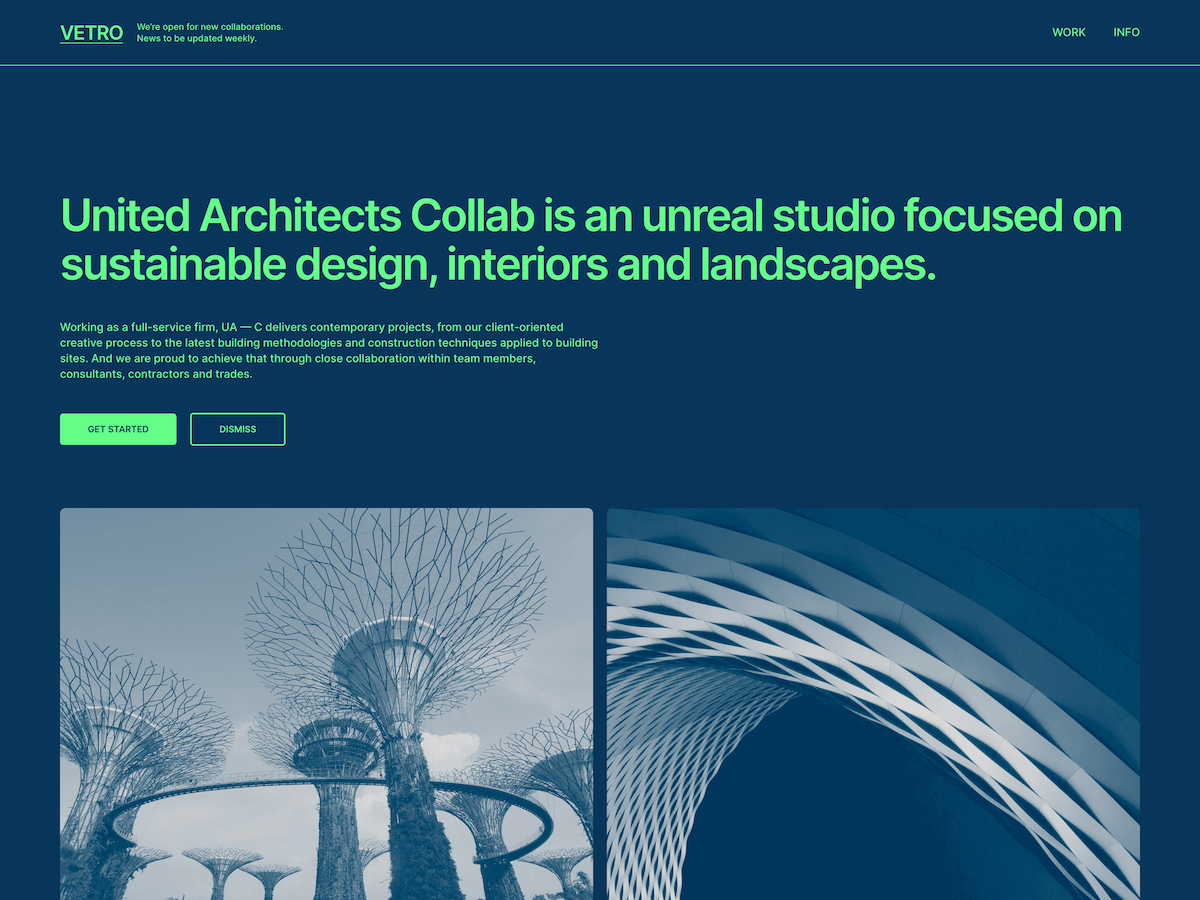
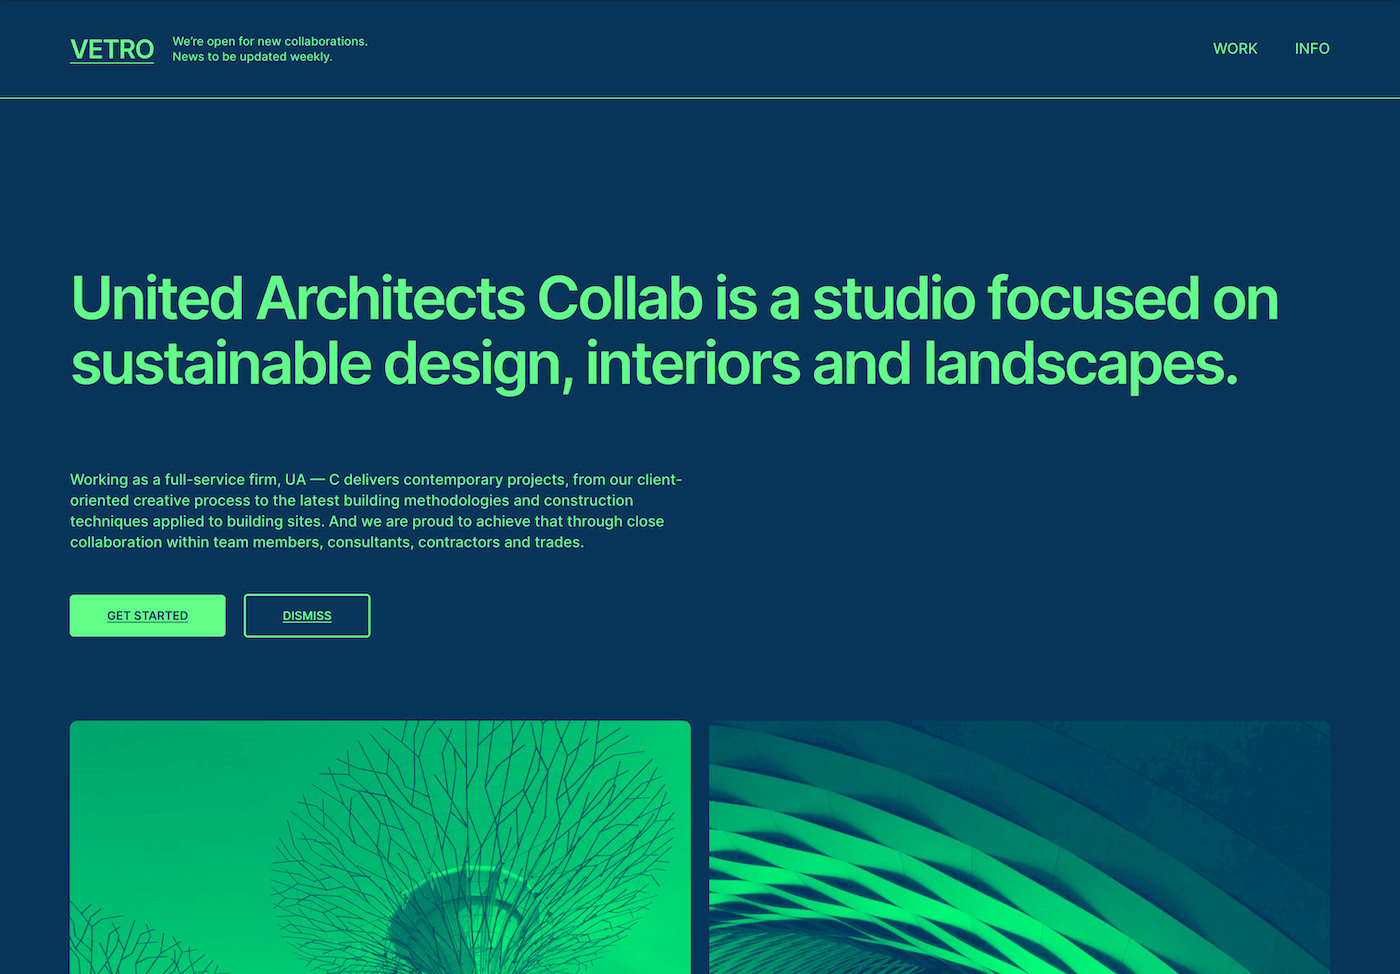
Vetro: use latest duotone features (#6910)
* Update duotone presets and apply to image and cover blocks.

* Remove duotone from block specific attributes.

* Title the variations.

* Remove title from default theme.json.

* Replace screenshot.

* Fix php version.

diff --git a/vetro/templates/single.html b/vetro/templates/single.html
@@ -53,7 +53,7 @@
 <div style="height:90px" aria-hidden="true" class="wp-block-spacer"></div>
 <!-- /wp:spacer -->
 
-<!-- wp:post-featured-image {"align":"full","style":{"spacing":{"margin":{"bottom":"0px","top":"0px"},"padding":{"top":"0px","right":"0px","bottom":"0px","left":"0px"}},"color":{"duotone":["#063559","#dadada"]}}} /-->
+<!-- wp:post-featured-image {"align":"full","style":{"spacing":{"margin":{"bottom":"0px","top":"0px"},"padding":{"top":"0px","right":"0px","bottom":"0px","left":"0px"}}}}} /-->
 
 <!-- wp:group {"align":"full","style":{"spacing":{"padding":{"top":"0px","right":"25%","bottom":"0px","left":"0px"},"blockGap":"0px","margin":{"top":"0px","bottom":"0px"}},"border":{"top":{"color":"var:preset|color|foreground","width":"1px"}}},"layout":{"type":"default"}} -->
 <div class="wp-block-group alignfull" style="border-top-color:var(--wp--preset--color--foreground);border-top-width:1px;margin-top:0px;margin-bottom:0px;padding-top:0px;padding-right:25%;padding-bottom:0px;padding-left:0px"></div>
@@ -67,7 +67,7 @@
 <!-- wp:comment-template {"style":{"typography":{"lineHeight":"1","fontStyle":"normal","fontWeight":"500"}},"fontSize":"small"} -->
 <!-- wp:columns {"style":{"spacing":{"padding":{"top":"0px","right":"0px","bottom":"40px","left":"0px"}}}} -->
 <div class="wp-block-columns" style="padding-top:0px;padding-right:0px;padding-bottom:40px;padding-left:0px"><!-- wp:column {"width":"40px"} -->
-<div class="wp-block-column" style="flex-basis:40px"><!-- wp:avatar {"size":40,"style":{"border":{"radius":"4px","width":"1px"},"color":{"duotone":["#063559","#dadada"]}},"borderColor":"foreground"} /--></div>
+<div class="wp-block-column" style="flex-basis:40px"><!-- wp:avatar {"size":40,"style":{"border":{"radius":"4px","width":"1px"}},"borderColor":"foreground"} /--></div>
 <!-- /wp:column -->
 
 <!-- wp:column {"style":{"spacing":{"padding":{"top":"0px","right":"0px","bottom":"0px","left":"0px"},"blockGap":"0px"}}} -->

diff --git a/vetro/templates/index.html b/vetro/templates/index.html
@@ -7,7 +7,7 @@
 
 <!-- wp:query {"queryId":0,"query":{"perPage":"2","pages":0,"offset":0,"postType":"post","order":"desc","orderBy":"date","author":"","search":"","exclude":[],"sticky":"only","inherit":false},"displayLayout":{"type":"flex","columns":2},"align":"wide"} -->
 <div class="wp-block-query alignwide"><!-- wp:post-template -->
-<!-- wp:post-featured-image {"isLink":true,"height":"640px","style":{"border":{"radius":"8px"},"color":{"duotone":["#063559","#dadada"]}}} /-->
+<!-- wp:post-featured-image {"isLink":true,"height":"640px","style":{"border":{"radius":"8px"}}} /-->
 
 <!-- wp:post-title {"isLink":true,"style":{"typography":{"fontSize":"2rem","lineHeight":"1","fontStyle":"normal","fontWeight":"600","letterSpacing":"-1px"},"spacing":{"padding":{"top":"0px","right":"0px","bottom":"0px","left":"0px"},"margin":{"top":"0px","right":"0px","bottom":"0px","left":"0px"}}}} /-->
 
@@ -23,7 +23,7 @@
 
 <!-- wp:query {"queryId":1,"query":{"perPage":"8","pages":0,"offset":0,"postType":"post","order":"desc","orderBy":"date","author":"","search":"","exclude":[],"sticky":"exclude","inherit":true},"displayLayout":{"type":"flex","columns":4},"align":"wide"} -->
 <div class="wp-block-query alignwide"><!-- wp:post-template -->
-<!-- wp:post-featured-image {"isLink":true,"width":"","height":"360px","style":{"border":{"radius":"8px"},"color":{"duotone":["#063559","#dadada"]}}} /-->
+<!-- wp:post-featured-image {"isLink":true,"width":"","height":"360px","style":{"border":{"radius":"8px"}}} /-->
 
 <!-- wp:post-title {"isLink":true,"style":{"typography":{"lineHeight":"1","fontSize":"2rem","fontStyle":"normal","fontWeight":"600","letterSpacing":"-1px"},"spacing":{"padding":{"top":"0px","right":"0px","bottom":"0px","left":"0px"},"margin":{"top":"0px","right":"0px","bottom":"0px","left":"0px"}}}} /-->
 

diff --git a/vetro/templates/archive.html b/vetro/templates/archive.html
@@ -4,7 +4,7 @@
 <main class="wp-block-group" style="margin-top:0px;margin-bottom:0px;padding-top:0px;padding-bottom:0px"><!-- wp:group {"align":"wide","style":{"spacing":{"padding":{"top":"0px","bottom":"0px","left":"0px","right":"30%"},"margin":{"top":"180px","bottom":"90px"},"blockGap":"0px"}},"layout":{"type":"default"}} -->
 <div class="wp-block-group alignwide" style="margin-top:180px;margin-bottom:90px;padding-top:0px;padding-right:30%;padding-bottom:0px;padding-left:0px"><!-- wp:query {"queryId":30,"query":{"perPage":"10","pages":0,"offset":0,"postType":"post","order":"desc","orderBy":"date","author":"","search":"","exclude":[],"sticky":"","inherit":false},"displayLayout":{"type":"flex","columns":2},"layout":{"type":"default"}} -->
 <div class="wp-block-query"><!-- wp:post-template -->
-<!-- wp:post-featured-image {"isLink":true,"width":"","height":"360px","style":{"border":{"radius":"8px"},"color":{"duotone":["#063559","#dadada"]}}} /-->
+<!-- wp:post-featured-image {"isLink":true,"width":"","height":"360px","style":{"border":{"radius":"8px"}}} /-->
 
 <!-- wp:post-title {"isLink":true,"style":{"typography":{"lineHeight":"1","fontStyle":"normal","fontWeight":"600","letterSpacing":"-1px","fontSize":"2rem"},"spacing":{"padding":{"top":"0px","right":"0px","bottom":"0px","left":"0px"},"margin":{"top":"0px","right":"0px","bottom":"0px","left":"0px"}}}} /-->
 

diff --git a/vetro/templates/search.html b/vetro/templates/search.html
@@ -8,7 +8,7 @@
 
 <!-- wp:query {"query":{"perPage":"6","pages":0,"offset":0,"postType":"post","order":"desc","orderBy":"date","author":"","search":"","exclude":[],"sticky":"","inherit":false},"displayLayout":{"type":"list","columns":2},"layout":{"type":"default"}} -->
 <div class="wp-block-query"><!-- wp:post-template -->
-<!-- wp:post-featured-image {"isLink":true,"width":"","height":"640px","style":{"border":{"radius":"8px"},"color":{"duotone":["#063559","#dadada"]}}} /-->
+<!-- wp:post-featured-image {"isLink":true,"width":"","height":"640px","style":{"border":{"radius":"8px"}}} /-->
 
 <!-- wp:post-title {"isLink":true,"style":{"typography":{"lineHeight":"1.1","fontSize":"4rem","fontStyle":"normal","fontWeight":"600","letterSpacing":"-1px"},"spacing":{"padding":{"top":"0px","right":"0px","bottom":"0px","left":"0px"},"margin":{"top":"0px","right":"0px","bottom":"0px","left":"0px"}}}} /-->
 

diff --git a/vetro/style.css b/vetro/style.css
@@ -5,8 +5,8 @@ Author: Automattic
 Author URI: https://automattic.com/
 Description: Vetro was designed to be a portfolio theme, and is composed by wide width layouts with the impact of generous imagery and typography. Its simple pages are aligned left with fair right paddings and large content blocks to grant viewers focus on visuals and short paragraphs.
 Requires at least: 5.8
-Tested up to: 6.1
-Requires PHP: 5.7
+Tested up to: 6.2
+Requires PHP: 5.6
 Version: 1.0.4
 License: GNU General Public License v2 or later
 License URI: http://www.gnu.org/licenses/gpl-2.0.html
